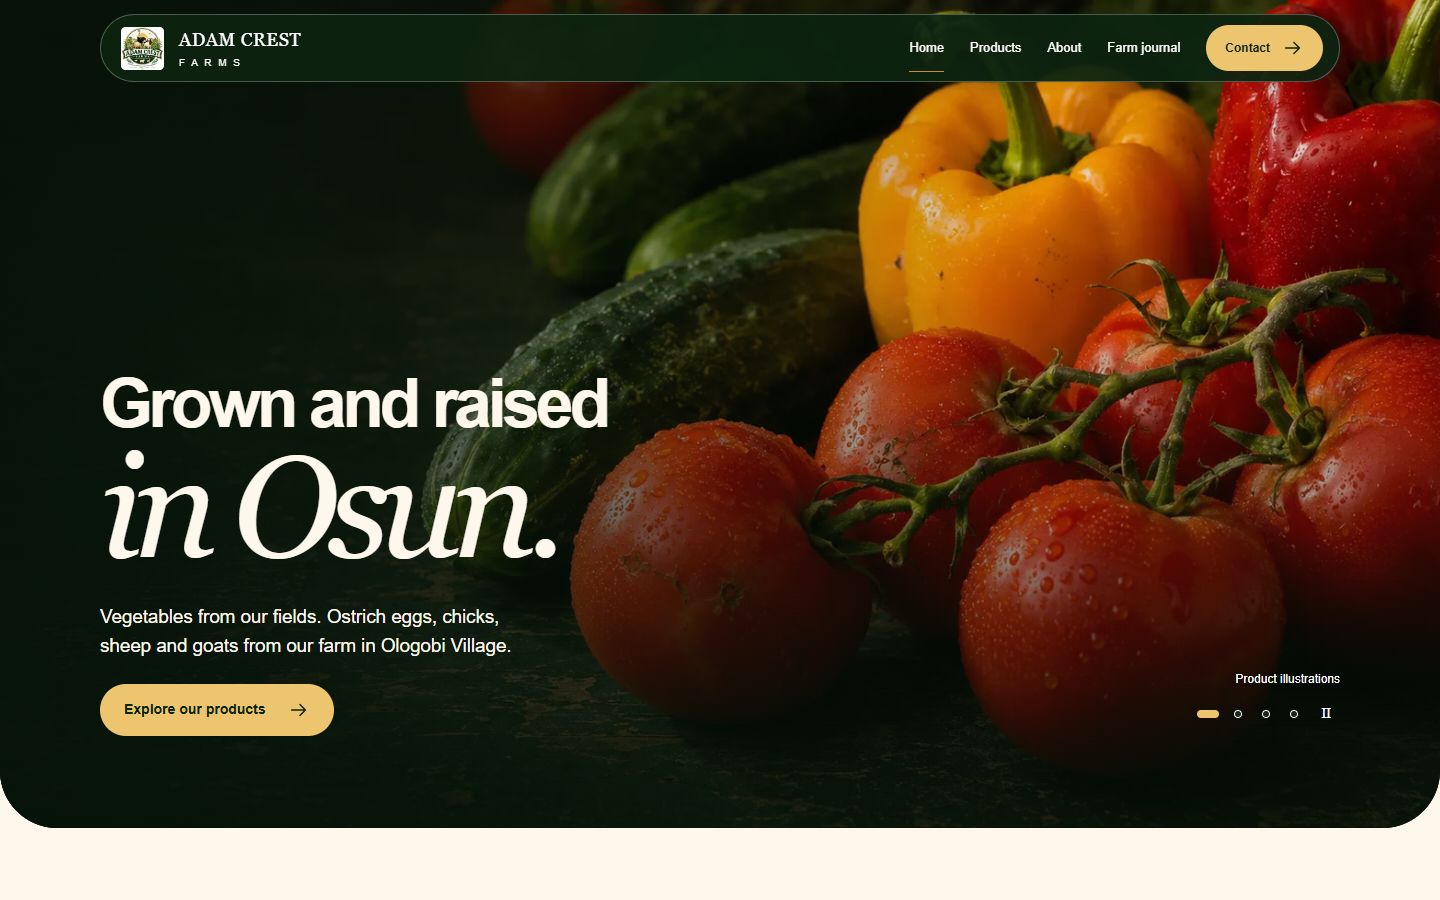
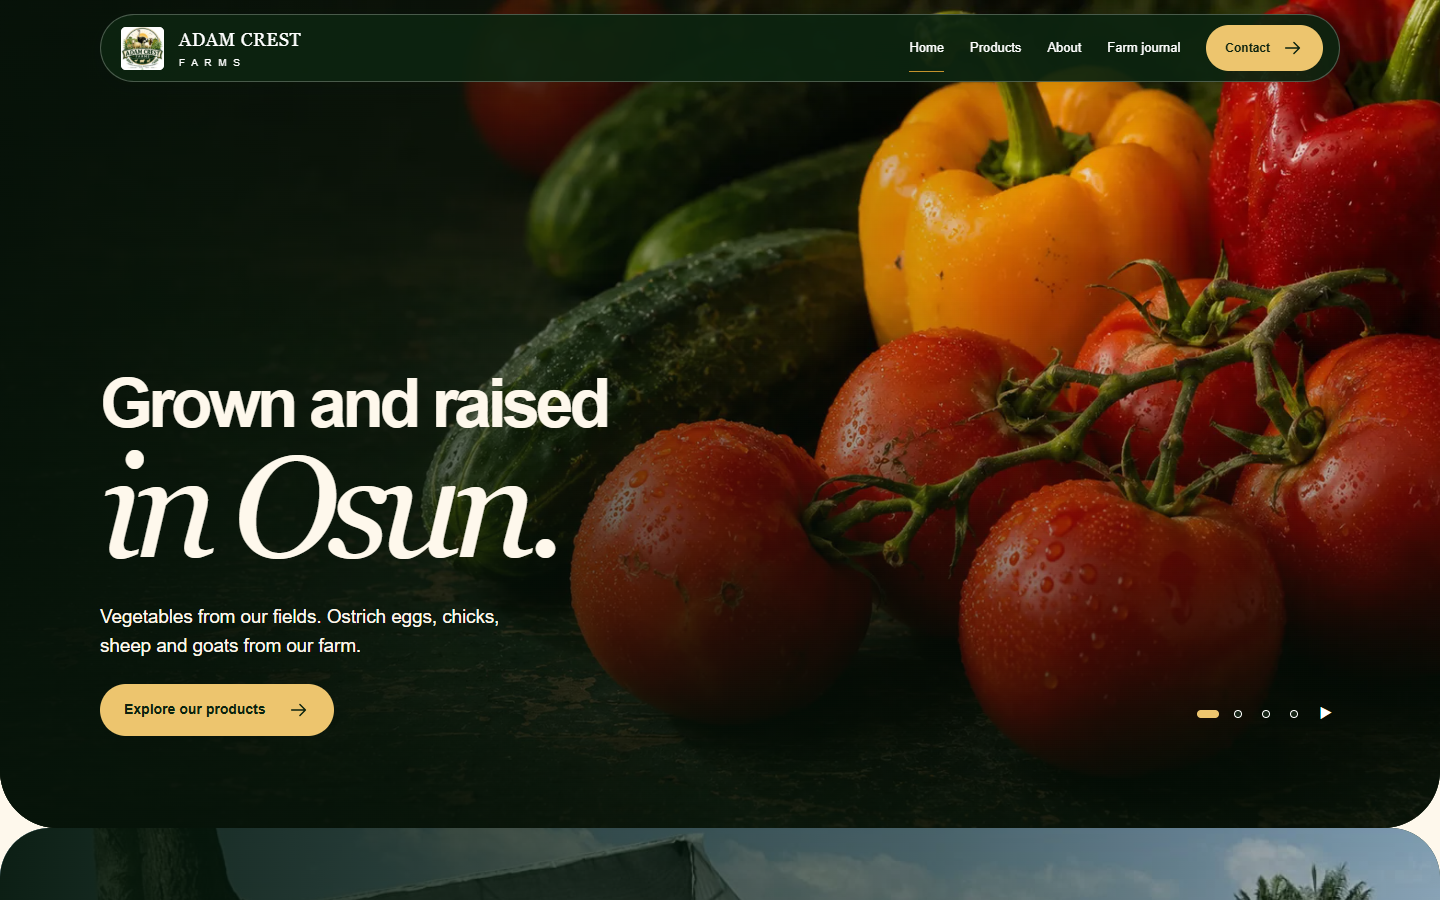
Move the farm story below the hero and close with the journal

diff --git a/public/market.css b/public/market.css
@@ -18,9 +18,7 @@ body:has(.field-cover) :is(section[id],main[id]) { scroll-margin-top:86px; }
 .field-cover-copy h1 { font:700 clamp(35px,4.7vw,73px)/1.02 Arial,Helvetica,sans-serif; letter-spacing:-.06em; }
 .field-cover-copy h1 em { display:block; color:var(--cream); font:italic 400 clamp(78px,10vw,156px)/.97 Georgia,serif; letter-spacing:-.07em; }
 .field-cover-copy p { max-width:40ch; margin:24px 0; font-size:clamp(16px,1.3vw,20px); line-height:1.55; }
-.cover-selector { flex-shrink:0; text-align:right; }
-.cover-selector small { color:#fff; font-size:12px; }
-.cover-controls { display:flex; align-items:center; justify-content:flex-end; }
+.cover-controls { display:flex; flex-shrink:0; align-items:center; justify-content:flex-end; }
 .cover-controls button { display:grid; place-items:center; min-width:28px; height:44px; padding:0 5px; color:white; background:transparent; }
 .cover-controls [data-slide] span { width:8px; height:8px; border:1px solid white; border-radius:8px; background:#182619; }
 .cover-controls [aria-pressed="true"] span { width:22px; background:var(--highlight); border-color:var(--highlight); }
@@ -111,7 +109,6 @@ body:has(.field-cover) :is(section[id],main[id]) { scroll-margin-top:86px; }
   .field-cover-copy h1 { font-size:clamp(36px,8vw,54px); }
   .field-cover-copy h1 em { font-size:clamp(76px,17vw,110px); }
   .field-cover-copy p { margin:18px 0; max-width:34ch; }
-  .cover-selector { display:flex; align-items:center; justify-content:space-between; text-align:left; }
   .cover-controls button { min-width:30px; }
   .feature-row,.buying-grid,.buyer-row { grid-template-columns:1fr; }
   .harvest-tile img,.age-sample,.breed-tags { height:96px; }

diff --git a/README.md b/README.md
@@ -2,7 +2,7 @@
 
 A self-contained Astro website with a Markdown farm journal, a photograph-led farm introduction and a product-enquiry composer. The supplied logo, Option C mascot and established forest/cream/gold palette are retained.
 
-**Local redesign, 26 November 2026.** The homepage follows the supplied EuniqueFarmé reference through the rotating cover, three feature cards, featured products, farm story, buying information, category shortcuts, photo tour, buyer groups and final enquiry. The Farm Journal sits before the enquiry. [Products](dist/products/index.html) supports shareable category filters, individual product pages and related products. Each category can open [Contact](dist/contact/index.html) with the product selected. The historical `#offerings`, `#our-farm` and `#enquire` bookmarks open the corresponding homepage sections.
+**Local redesign, 26 November 2026.** About the farm follows the rotating cover. The product features and catalogue lead into the farm photo tour, buying information, category shortcuts and buyer groups. The enquiry form comes before the journal, which closes the homepage when an article is eligible. [Products](dist/products/index.html) supports shareable category filters, individual product pages and related products. Each category can open [Contact](dist/contact/index.html) with the product selected. The historical `#offerings`, `#our-farm` and `#enquire` bookmarks open the corresponding homepage sections.
 
 The Farm Journal retains its article cards, topic archives and full articles. The homepage features the latest eligible post. The preview includes one labelled draft. Instagram is the available contact channel, and WhatsApp is hidden pending a confirmed number. Everything is local.
 

diff --git a/docs/QA.md b/docs/QA.md
@@ -1,5 +1,9 @@
 # Local website verification
 
+## Homepage copy and section order, 26 November 2026
+
+Checked the revised hero copy and the homepage section order at 320, 390, 768, 1024 and 1440 pixels. About follows the hero, Inside the farm follows Farm products, and the enquiry form precedes the journal. The slideshow controls, product jump link and quote composer passed at each width. The checks found no horizontal overflow, browser errors or automated accessibility violations.
+
 ## EuniqueFarmé reference redesign, 26 November 2026
 
 Reviewed the cover and product grid at desktop and phone sizes, plus the feature cards, story, farm tour, quote form and individual product layout. The homepage follows the reference sequence and adds the existing journal before the quote form. Buyer groups occupy the reference's testimonial section. Farm photographs and generated product illustrations have distinct uses and provenance.
